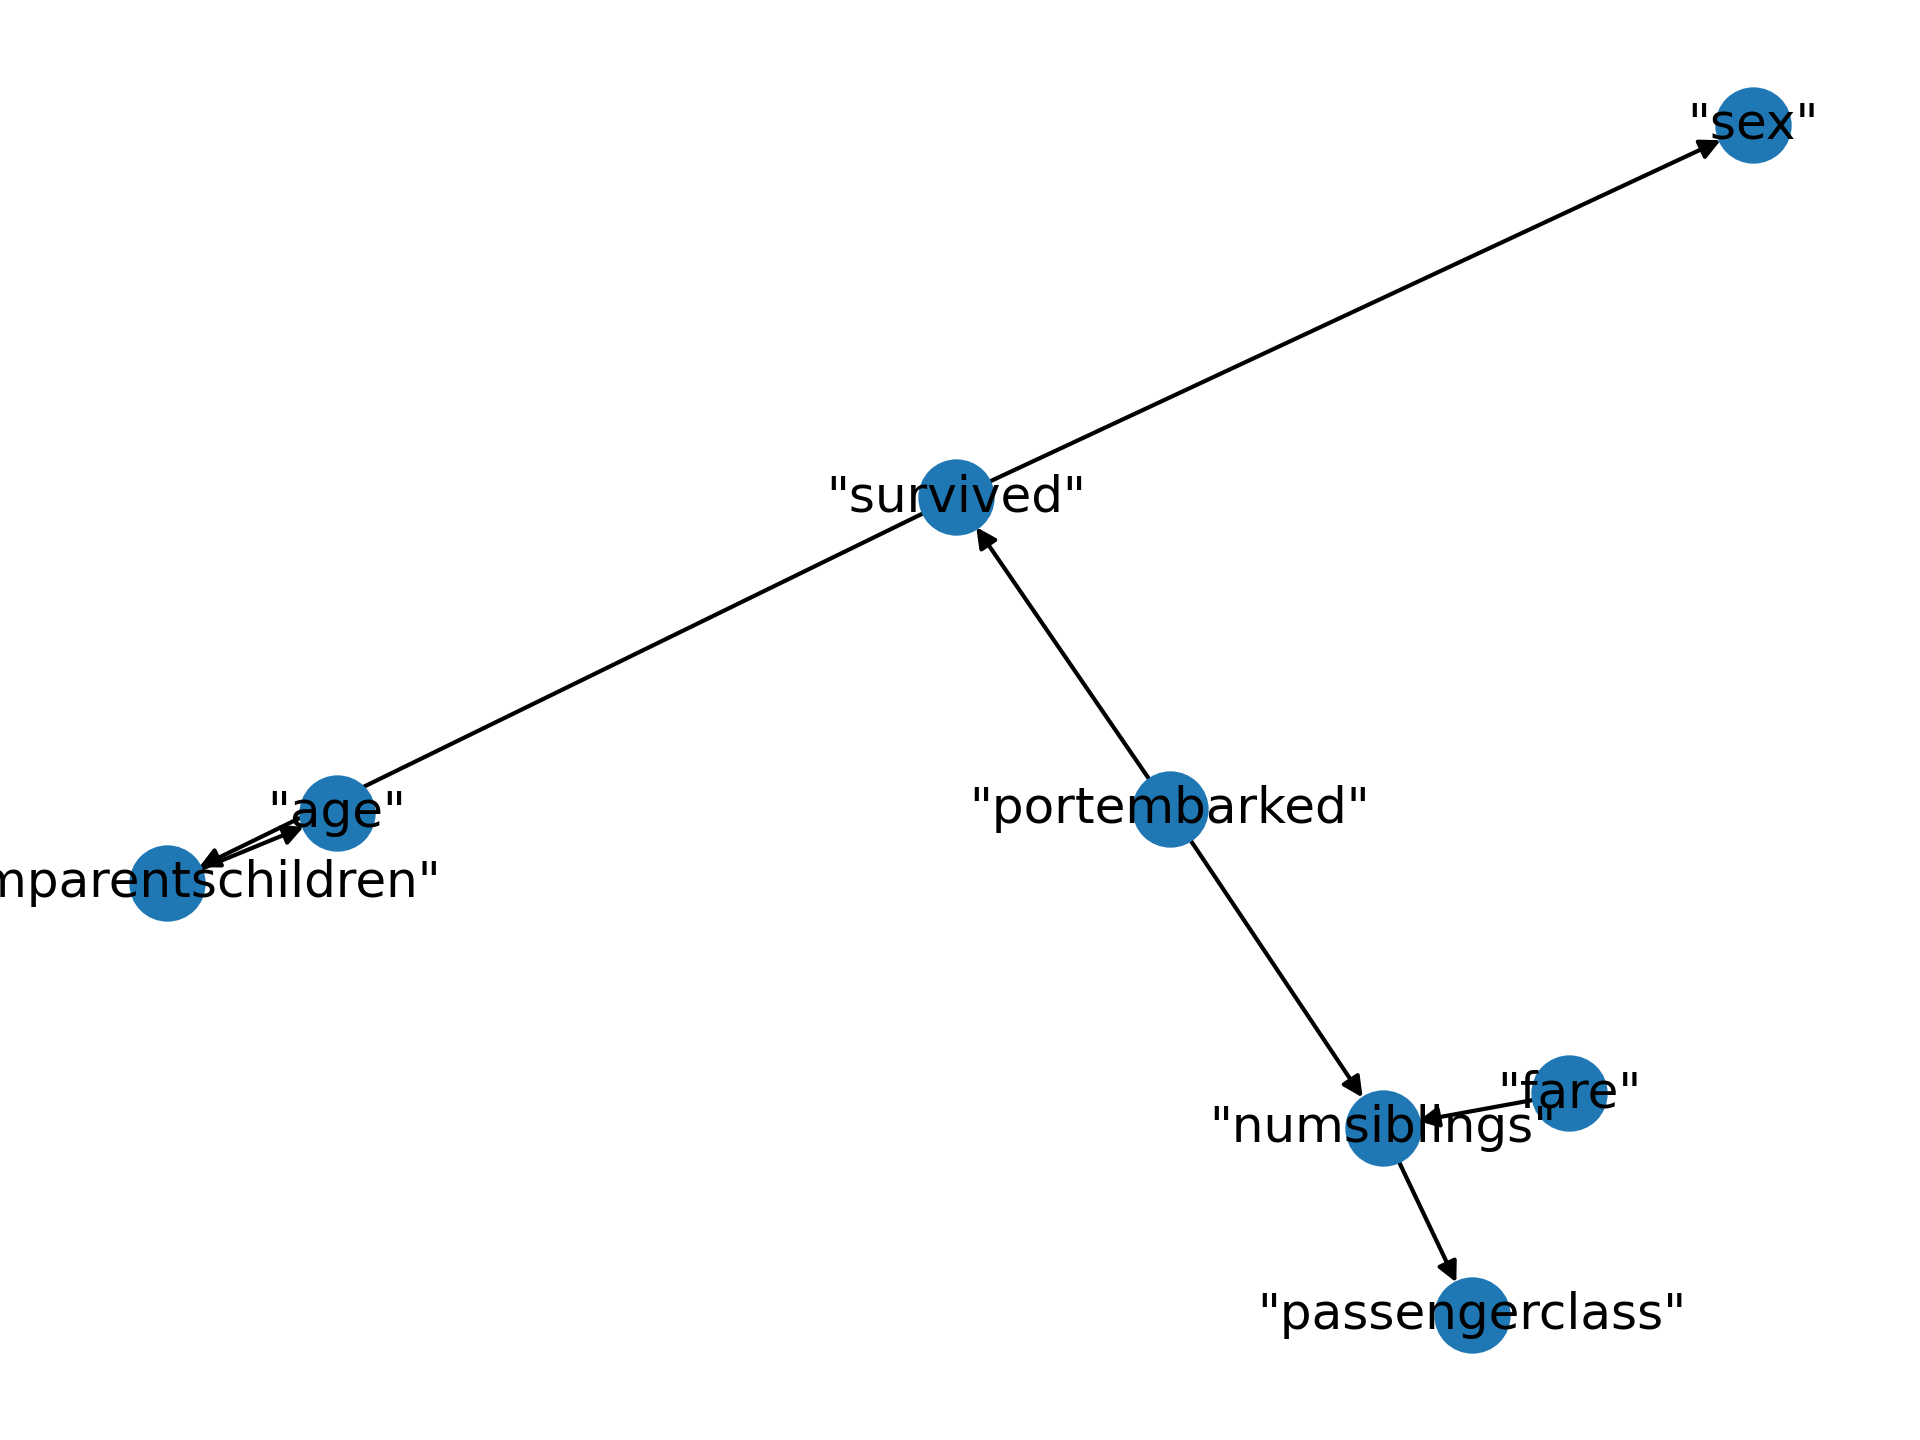
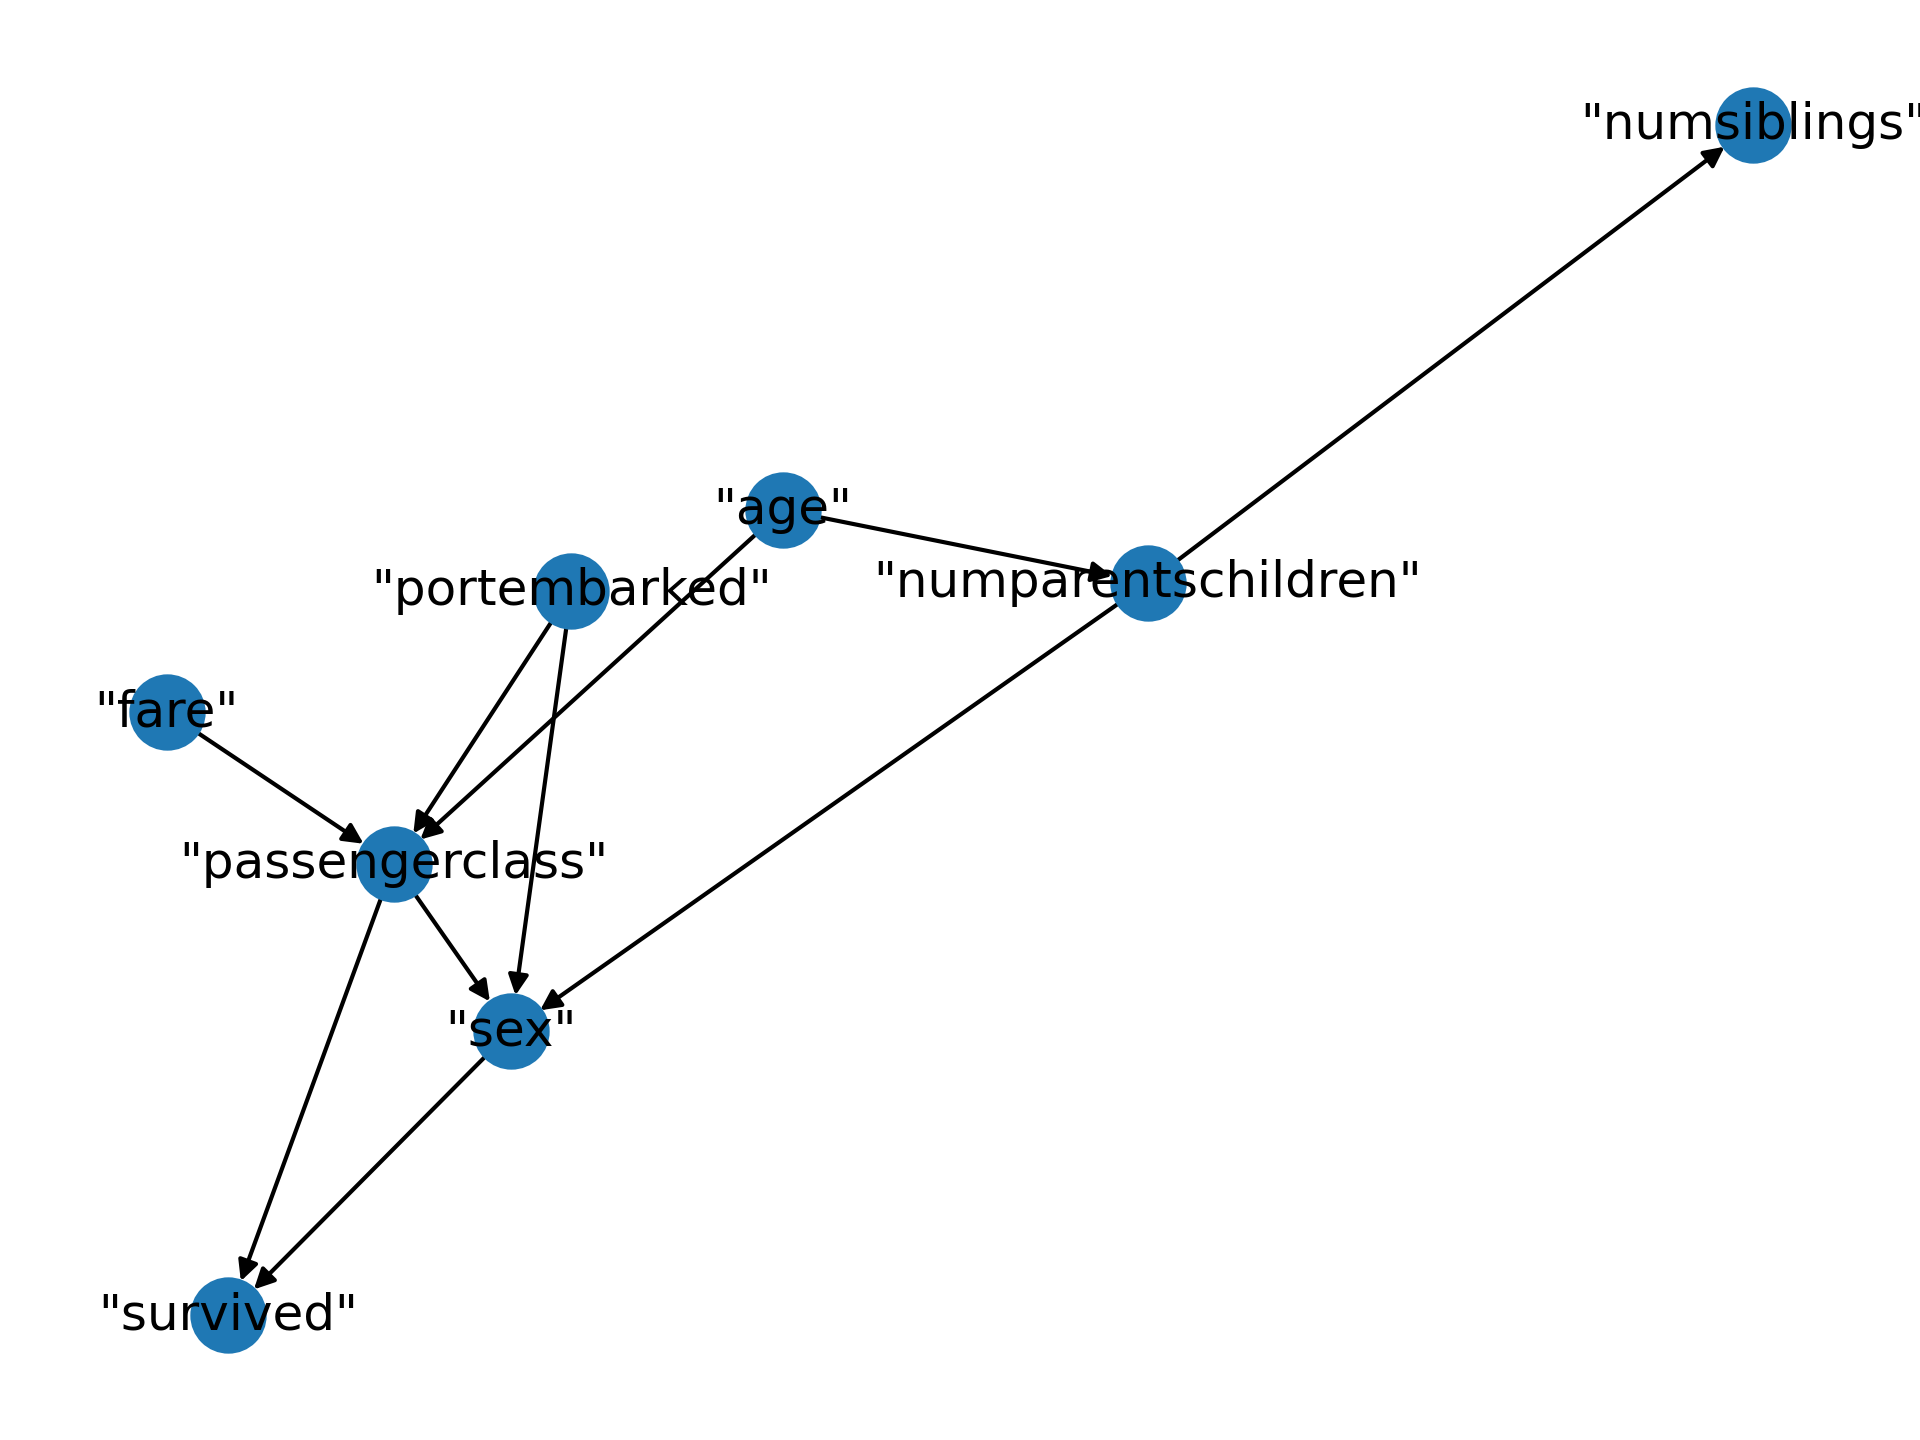
ready

diff --git a/project1/bayesian_network.py b/project1/bayesian_network.py
@@ -1,12 +1,25 @@
 import sys
+import time
 import numpy as np
 from scipy.special import loggamma
-from process_data import process_data
-from graph import construct_graph
 import networkx as nx
 import random
 from networkx.drawing.nx_agraph import write_dot
 import matplotlib.pyplot as plt
+
+
+
+def process_data(dir):
+
+    data = np.loadtxt(dir, delimiter=",", dtype=str)
+    var_names = data[0]
+    data = data[1:]
+    data = data.astype(float)
+
+    var_to_indx = {var_name:indx for indx, var_name in enumerate(var_names)}
+    var_to_r = {var_name:int(np.amax(data[:, i])) for i, var_name in enumerate(var_names)}
+
+    return (var_names, var_to_indx, var_to_r), data
 
 
 
@@ -79,7 +92,7 @@ def find_bayesian_network(vars_info, D):
         while True:
             best_score, best_node = float('-inf'), 0
             for v in var_names[:i]:
-                if not G.has_edge(v, u):
+                if not G.has_edge(v, u) and len(list(G.predecessors(u))) <= 5: # Cut down the number of parents
                     G.add_edge(v, u)
                     curr_score = bayesian_score(vars_info, G, D)
                     if curr_score > best_score:
@@ -112,7 +125,7 @@ def shuffle(vars_info, D):
 def best_bayesian(file):
     vars_info, D = process_data(f"data/{file}.csv")
     G_best, G_best_score = find_bayesian_network(vars_info, D)
-    for i in range(1):
+    for i in range(0): # RANGE IS SET TO ZERO
         shuffled_vars, shuffled_D = shuffle(vars_info, D)
         G, G_score = find_bayesian_network(shuffled_vars, shuffled_D)
         # score = bayesian_score(shuffled_vars, G, shuffled_D)
@@ -128,11 +141,24 @@ def best_bayesian(file):
 
 
 
-def process_output(G, file):
-    write_dot(G, f"data/{file}.gph")
+def process_output(G, file_type):
     nx.draw(G, with_labels=True)
-    plt.savefig(f"data/{file}.png",dpi=300)
+    plt.savefig(f"data/{file_type}.png",dpi=300)
 
+    write_dot(G, f"data/temp{file_type}.gph")
+    file = open(f"data/temp{file_type}.gph", "r")
+    write_file = open(f"data/{file_type}.gph", "w")
+    lines = file.readlines()
+    lines = lines[:-1]
+    lines = lines[1:]
+    for line in lines:
+        for char in '"\>;':
+            line = line.replace(char, '')
+        words = line.split("-")
+        # print("words: ", words)
+        parent, child = words[0].strip(), words[1].strip()
+        write_file.write(parent+","+child+"\n")
+    write_file.close()
 
 def main():
     file_names = {"small", "medium", "large"}
@@ -147,4 +173,6 @@ def main():
 
 
 if __name__ == "__main__":
+    start_time = time.time()
     main()
+    print("--- %s seconds ---" % (time.time() - start_time))

diff --git a/project1/process_data.py b/project1/process_data.py
@@ -6,14 +6,10 @@ def process_data(dir):
     var_names = data[0]
     data = data[1:]
     data = data.astype(float)
-    # vars= [(var_name, i, np.amax(data[:, i])) for i, var_name in enumerate(variable_names)]
-    # print(data)
+
     var_to_indx = {var_name:indx for indx, var_name in enumerate(var_names)}
     var_to_r = {var_name:int(np.amax(data[:, i])) for i, var_name in enumerate(var_names)}
 
-    # print(var_to_indx)
-    # print()
-    # print(var_to_r)
     return (var_names, var_to_indx, var_to_r), data
 
 
